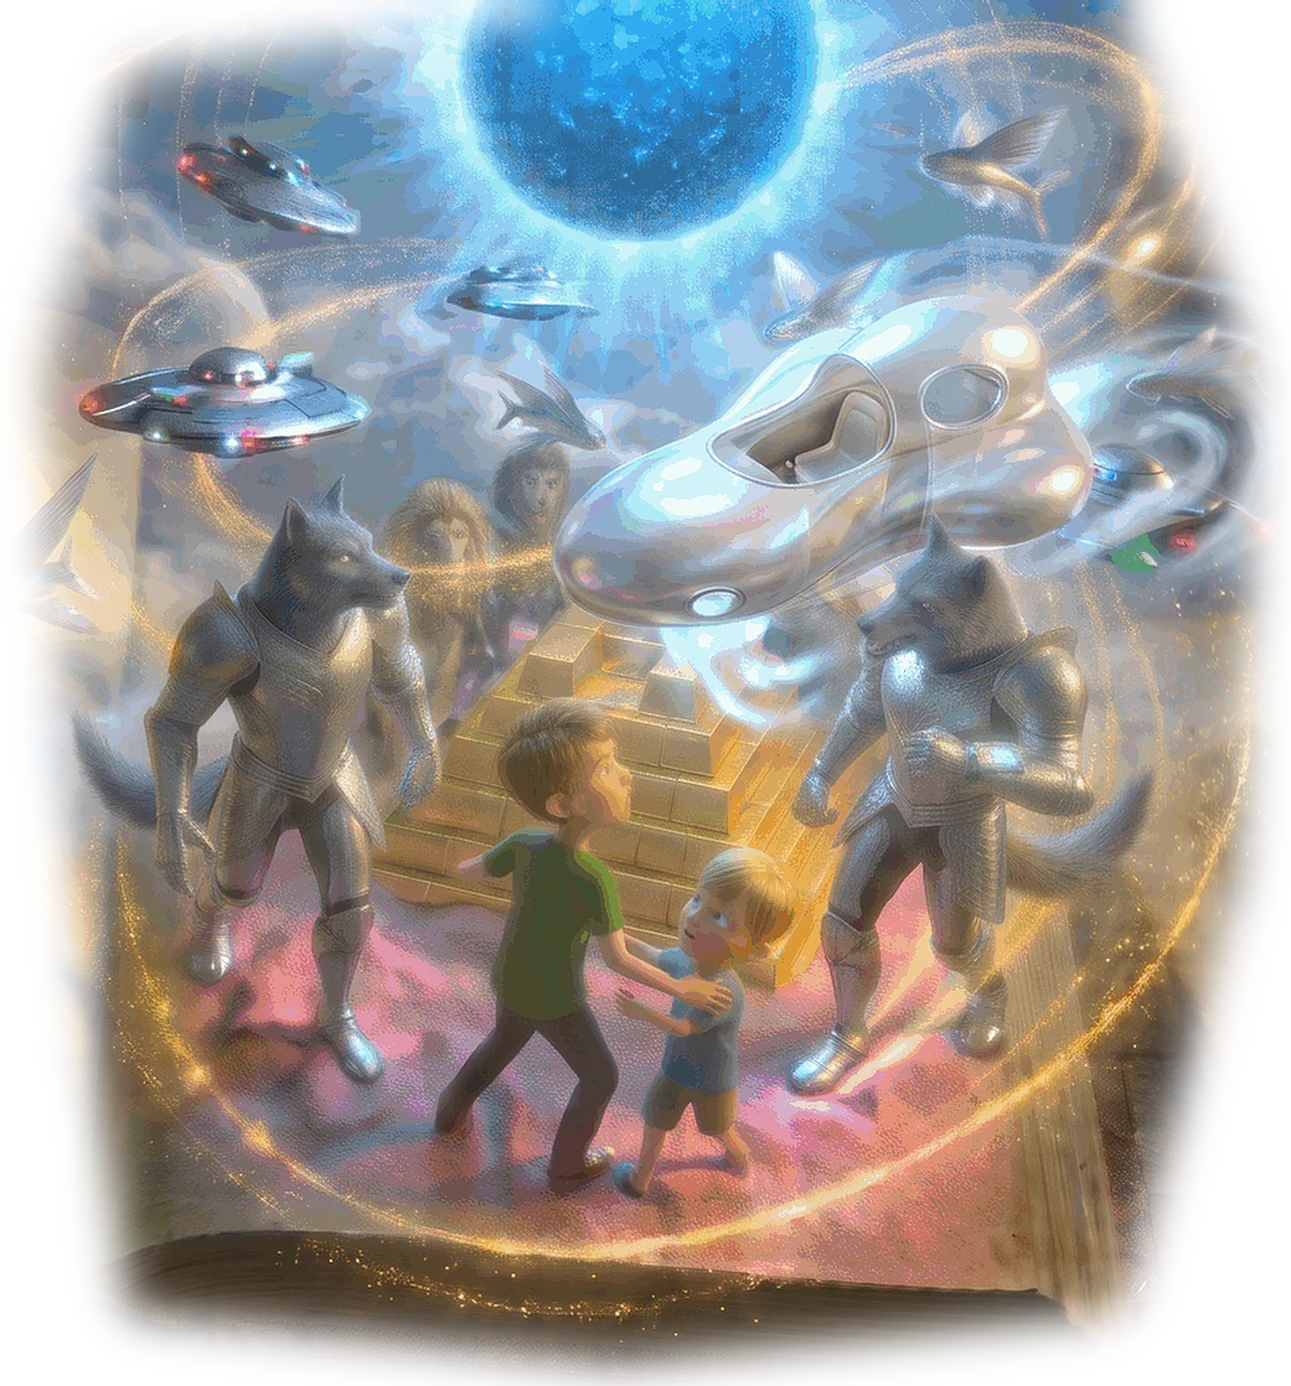
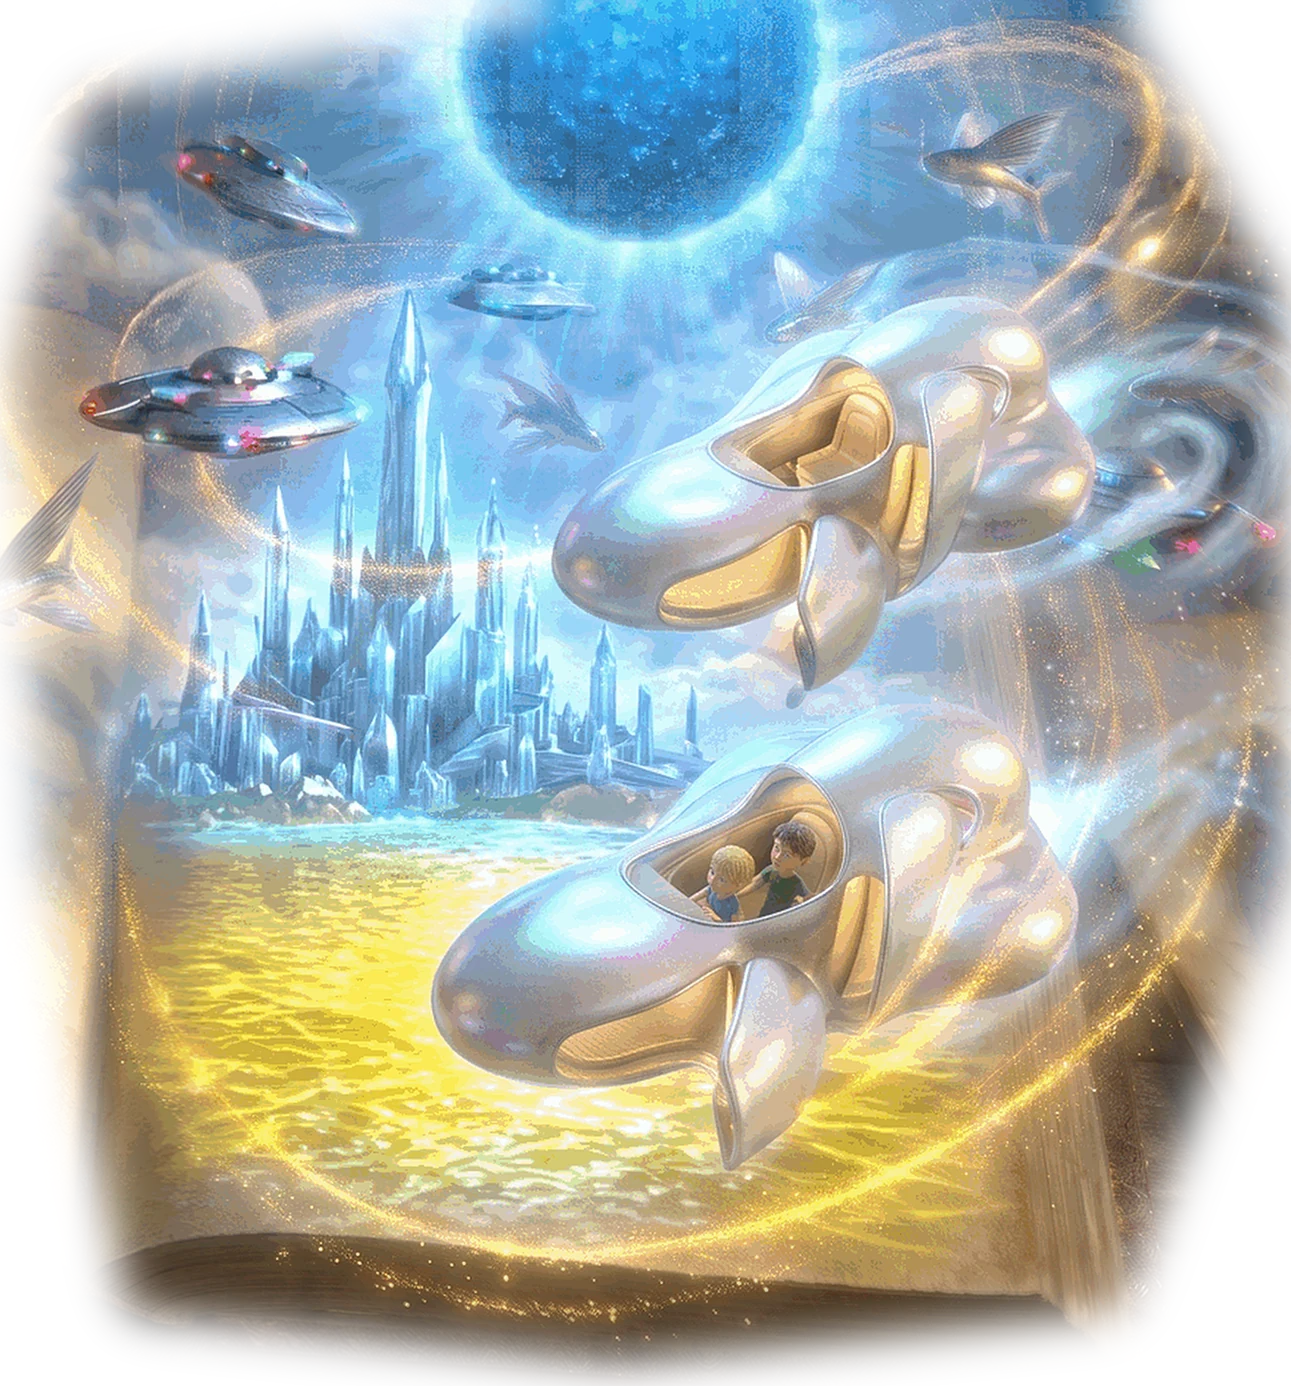
Upside-Down World p24: use clean crystal-city frame, no ghosting
Claude-Session: https://claude.ai/code/session_01BFtifSTdmWYaAK88ECs5PE

diff --git a/books/upside-down-world/sprite.js b/books/upside-down-world/sprite.js
@@ -1,2 +1,2 @@
 /* flying objects drawn over a still page: img = transparent sprite, rs = ball radius in the sprite, path = [x,y,radius] per frame at 24 fps in 1408x768 picture pixels */
-window.SPRITES={p01:{img:"img/p01-ball.webp",size:260,rs:104.5,path:[[951.0,390.0,18.5],[946.4,377.6,21.9],[944.8,373.2,22.6],[941.8,364.8,24.4],[938.6,356.8,26.0],[935.2,349.1,27.6],[931.6,342.1,29.2],[927.9,335.5,30.7],[923.8,329.1,32.0],[919.7,322.8,33.5],[915.7,316.9,34.9],[911.8,311.1,36.2],[907.8,305.5,37.6],[903.9,300.1,38.9],[899.8,295.1,40.2],[895.8,290.0,41.2],[891.4,285.1,42.2],[887.2,280.3,43.2],[882.9,275.7,44.3],[878.9,271.0,45.3],[874.9,266.6,46.5],[871.2,262.1,47.8],[867.5,257.7,49.1],[863.9,253.4,50.5],[860.2,249.1,51.8],[856.2,244.7,53.0],[852.4,240.6,54.2],[848.3,236.6,55.3],[843.9,232.6,56.5],[839.6,228.6,57.6],[835.4,224.8,58.6],[830.9,221.0,59.7],[826.3,217.3,60.7],[821.9,213.7,61.5],[817.4,210.1,62.4],[812.8,206.8,63.6],[808.1,203.5,64.5],[803.4,200.3,65.6],[798.8,196.9,66.6],[794.1,193.7,67.7],[789.4,190.4,68.8],[784.8,187.1,70.0],[780.1,183.8,71.3],[775.3,180.6,72.7],[770.3,177.4,74.1],[765.1,174.3,75.5],[759.8,171.1,77.0],[754.7,167.8,78.5],[749.2,164.6,80.0],[743.7,161.4,81.3],[738.1,157.9,82.7],[732.6,154.6,84.0]]},p02:{img:"img/p01-ball.webp",size:260,rs:104.5,kind:"lob",from:[1008,538,9],to:[1040,212,4.2],apex:170,rig:[{img:"img/p02-leg.webp",box:[960,515,60,60],pivot:[987,531],depth:[988,545],motion:"leg"}]},p03:{rig:[{img:"img/p03-leo.webp",box:[906,462,52,56],pivot:[932,504],depth:[932,495],motion:"headL"},{img:"img/p03-sam.webp",box:[946,475,52,56],pivot:[972,515],depth:[972,505],motion:"headS"}]},p03s:{img:"img/p01-ball.webp",size:260,rs:104.5,kind:"hops",ground:true,rest:1.6,start:[920.3,488.6,14.5],du:[1.25,.42,.3],grow:.5,bend:-62,hops:[[896,197,9.5,175],[892,187,8.5,15],[879,181,7.5,6]],to:[879,181,7.5]},p03t:{rig:[{img:"img/p03-turn.webp",box:[888,468,114,140],pivot:[945,538],depth:[945,540],motion:"turn"}]},p05p:{rig:[{img:"img/p05-point.webp",box:[884,452,118,156],pivot:[943,530],depth:[943,540],motion:"point2"}]},p06k:{rig:[{img:"img/p06-k0.webp",box:[878,423,80,114],pivot:[918.4,478.3],depth:[918.4,508.3],motion:"kf0"},{img:"img/p06-k1.webp",box:[866,417,97,111],pivot:[915.3,473.5],depth:[915.3,503.5],motion:"kf1"},{img:"img/p06-k2.webp",box:[874,472,99,116],pivot:[921.4,531.8],depth:[921.4,561.8],motion:"kf2"}]},p07k:{rig:[{img:"img/p07-kids.webp",box:[859.6,324.2,83.1,120.1],pivot:[910,404],depth:[910,395],motion:"walk7"}]},p08k:{rig:[{img:"img/p08-k1.webp",box:[750,272,339.5,323],pivot:[920,590],depth:[920,560],motion:"p8a"},{img:"img/p08-k2.webp",box:[781,272,283.5,323],pivot:[920,590],depth:[920,560],motion:"p8b"}]},p09k:{rig:[{img:"img/p09-wave.webp",box:[868,430,152,180],pivot:[944,520],depth:[944,540],motion:"p9"}]},p10k:{rig:[{img:"img/p10-kids.webp",box:[800,350,240,210],pivot:[920,455],depth:[920,470],motion:"stride"},{img:"img/p10-whale.webp",box:[640,30,550,380],pivot:[905,220],depth:[905,220],motion:"flip10"}]},p11k:{rig:[{img:"img/p10-kids.webp",box:[800,350,240,210],pivot:[920,455],depth:[920,470],motion:"stride"},{img:"img/p11-song.webp",box:[23,59,1272,491],pivot:[660,300],depth:[880,180],motion:"song11"}]},p12k:{rig:[{img:"img/p12-k1.webp",box:[810,340,250,260],pivot:[935,470],depth:[935,480],motion:"p12a"},{img:"img/p12-k2.webp",box:[810,340,250,260],pivot:[935,470],depth:[935,480],motion:"p12b"}]},p13k:{rig:[{img:"img/p13-gasp.webp",box:[920,350,140,140],pivot:[990,420],depth:[990,430],motion:"p13"}]},p14k:{rig:[{img:"img/p14-k1.webp",box:[850,320,210,220],pivot:[955,430],depth:[955,440],motion:"p14a"},{img:"img/p14-k2.webp",box:[850,320,210,220],pivot:[955,430],depth:[955,440],motion:"p14b"}]},p15k:{rig:[{img:"img/p15-k1.webp",box:[557,7,792,675.5],pivot:[953,345],depth:[975,418],motion:"p15a"},{img:"img/p15-k2.webp",box:[557,7,792,675.5],pivot:[953,345],depth:[975,418],motion:"p15b"}]},p16k:{rig:[{img:"img/p16-b.webp",box:[704.0, 14.5, 638.0, 367.0],pivot:[1023, 198],depth:[1063, 190],motion:"p16b"},{img:"img/p16-roma.webp",box:[705.5, 421.0, 524.5, 251.5],pivot:[968, 634],depth:[968, 547],motion:"p16roma"}]},p18k:{rig:[{img:"img/p18-k1.webp",box:[645.0,0.0,645.5,693.0],pivot:[968,346],depth:[990,367],motion:"p17b"},{img:"img/p18-k2.webp",box:[645.0,0.0,645.5,693.0],pivot:[968,346],depth:[990,367],motion:"p17c"}]},p21k:{rig:[{img:"img/p21-k1.webp",box:[645.0,0.0,645.5,693.0],pivot:[968,346],depth:[990,367],motion:"p17b"}]},p24k:{rig:[{img:"img/p24-k1.webp",box:[645.0,0.0,645.5,693.0],pivot:[968,346],depth:[990,367],motion:"p17b"},{img:"img/p24-k2.webp",box:[645.0,0.0,645.5,693.0],pivot:[968,346],depth:[990,367],motion:"p17c"}]},p23k:{rig:[{img:"img/p23-k1.webp",box:[645.0,0.0,645.5,693.0],pivot:[968,346],depth:[990,367],motion:"p17b"},{img:"img/p23-k2.webp",box:[645.0,0.0,645.5,693.0],pivot:[968,346],depth:[990,367],motion:"p17c"}]},p22k:{rig:[{img:"img/p22-k1.webp",box:[645.0,0.0,645.5,693.0],pivot:[968,346],depth:[990,367],motion:"p17b"},{img:"img/p22-k2.webp",box:[645.0,0.0,645.5,693.0],pivot:[968,346],depth:[990,367],motion:"p17c"}]},p20k:{rig:[{img:"img/p20-k1.webp",box:[645.0,0.0,645.5,693.0],pivot:[968,346],depth:[990,367],motion:"p17b"},{img:"img/p20-k2.webp",box:[645.0,0.0,645.5,693.0],pivot:[968,346],depth:[990,367],motion:"p17c"}]},p19k:{rig:[{img:"img/p19-k1.webp",box:[645.0,0.0,645.5,693.0],pivot:[968,346],depth:[990,367],motion:"p17b"},{img:"img/p19-k2.webp",box:[645.0,0.0,645.5,693.0],pivot:[968,346],depth:[990,367],motion:"p17c"}]},p17k:{rig:[{img:"img/p17-k1.webp",box:[645.0, 0.0, 697.0, 693.0],pivot:[994, 346],depth:[990, 367],motion:"p17b"},{img:"img/p17-k2.webp",box:[645.0, 0.0, 697.0, 693.0],pivot:[994, 346],depth:[990, 367],motion:"p17c"}]}};
+window.SPRITES={p01:{img:"img/p01-ball.webp",size:260,rs:104.5,path:[[951.0,390.0,18.5],[946.4,377.6,21.9],[944.8,373.2,22.6],[941.8,364.8,24.4],[938.6,356.8,26.0],[935.2,349.1,27.6],[931.6,342.1,29.2],[927.9,335.5,30.7],[923.8,329.1,32.0],[919.7,322.8,33.5],[915.7,316.9,34.9],[911.8,311.1,36.2],[907.8,305.5,37.6],[903.9,300.1,38.9],[899.8,295.1,40.2],[895.8,290.0,41.2],[891.4,285.1,42.2],[887.2,280.3,43.2],[882.9,275.7,44.3],[878.9,271.0,45.3],[874.9,266.6,46.5],[871.2,262.1,47.8],[867.5,257.7,49.1],[863.9,253.4,50.5],[860.2,249.1,51.8],[856.2,244.7,53.0],[852.4,240.6,54.2],[848.3,236.6,55.3],[843.9,232.6,56.5],[839.6,228.6,57.6],[835.4,224.8,58.6],[830.9,221.0,59.7],[826.3,217.3,60.7],[821.9,213.7,61.5],[817.4,210.1,62.4],[812.8,206.8,63.6],[808.1,203.5,64.5],[803.4,200.3,65.6],[798.8,196.9,66.6],[794.1,193.7,67.7],[789.4,190.4,68.8],[784.8,187.1,70.0],[780.1,183.8,71.3],[775.3,180.6,72.7],[770.3,177.4,74.1],[765.1,174.3,75.5],[759.8,171.1,77.0],[754.7,167.8,78.5],[749.2,164.6,80.0],[743.7,161.4,81.3],[738.1,157.9,82.7],[732.6,154.6,84.0]]},p02:{img:"img/p01-ball.webp",size:260,rs:104.5,kind:"lob",from:[1008,538,9],to:[1040,212,4.2],apex:170,rig:[{img:"img/p02-leg.webp",box:[960,515,60,60],pivot:[987,531],depth:[988,545],motion:"leg"}]},p03:{rig:[{img:"img/p03-leo.webp",box:[906,462,52,56],pivot:[932,504],depth:[932,495],motion:"headL"},{img:"img/p03-sam.webp",box:[946,475,52,56],pivot:[972,515],depth:[972,505],motion:"headS"}]},p03s:{img:"img/p01-ball.webp",size:260,rs:104.5,kind:"hops",ground:true,rest:1.6,start:[920.3,488.6,14.5],du:[1.25,.42,.3],grow:.5,bend:-62,hops:[[896,197,9.5,175],[892,187,8.5,15],[879,181,7.5,6]],to:[879,181,7.5]},p03t:{rig:[{img:"img/p03-turn.webp",box:[888,468,114,140],pivot:[945,538],depth:[945,540],motion:"turn"}]},p05p:{rig:[{img:"img/p05-point.webp",box:[884,452,118,156],pivot:[943,530],depth:[943,540],motion:"point2"}]},p06k:{rig:[{img:"img/p06-k0.webp",box:[878,423,80,114],pivot:[918.4,478.3],depth:[918.4,508.3],motion:"kf0"},{img:"img/p06-k1.webp",box:[866,417,97,111],pivot:[915.3,473.5],depth:[915.3,503.5],motion:"kf1"},{img:"img/p06-k2.webp",box:[874,472,99,116],pivot:[921.4,531.8],depth:[921.4,561.8],motion:"kf2"}]},p07k:{rig:[{img:"img/p07-kids.webp",box:[859.6,324.2,83.1,120.1],pivot:[910,404],depth:[910,395],motion:"walk7"}]},p08k:{rig:[{img:"img/p08-k1.webp",box:[750,272,339.5,323],pivot:[920,590],depth:[920,560],motion:"p8a"},{img:"img/p08-k2.webp",box:[781,272,283.5,323],pivot:[920,590],depth:[920,560],motion:"p8b"}]},p09k:{rig:[{img:"img/p09-wave.webp",box:[868,430,152,180],pivot:[944,520],depth:[944,540],motion:"p9"}]},p10k:{rig:[{img:"img/p10-kids.webp",box:[800,350,240,210],pivot:[920,455],depth:[920,470],motion:"stride"},{img:"img/p10-whale.webp",box:[640,30,550,380],pivot:[905,220],depth:[905,220],motion:"flip10"}]},p11k:{rig:[{img:"img/p10-kids.webp",box:[800,350,240,210],pivot:[920,455],depth:[920,470],motion:"stride"},{img:"img/p11-song.webp",box:[23,59,1272,491],pivot:[660,300],depth:[880,180],motion:"song11"}]},p12k:{rig:[{img:"img/p12-k1.webp",box:[810,340,250,260],pivot:[935,470],depth:[935,480],motion:"p12a"},{img:"img/p12-k2.webp",box:[810,340,250,260],pivot:[935,470],depth:[935,480],motion:"p12b"}]},p13k:{rig:[{img:"img/p13-gasp.webp",box:[920,350,140,140],pivot:[990,420],depth:[990,430],motion:"p13"}]},p14k:{rig:[{img:"img/p14-k1.webp",box:[850,320,210,220],pivot:[955,430],depth:[955,440],motion:"p14a"},{img:"img/p14-k2.webp",box:[850,320,210,220],pivot:[955,430],depth:[955,440],motion:"p14b"}]},p15k:{rig:[{img:"img/p15-k1.webp",box:[557,7,792,675.5],pivot:[953,345],depth:[975,418],motion:"p15a"},{img:"img/p15-k2.webp",box:[557,7,792,675.5],pivot:[953,345],depth:[975,418],motion:"p15b"}]},p16k:{rig:[{img:"img/p16-b.webp",box:[704.0, 14.5, 638.0, 367.0],pivot:[1023, 198],depth:[1063, 190],motion:"p16b"},{img:"img/p16-roma.webp",box:[705.5, 421.0, 524.5, 251.5],pivot:[968, 634],depth:[968, 547],motion:"p16roma"}]},p18k:{rig:[{img:"img/p18-k1.webp",box:[645.0,0.0,645.5,693.0],pivot:[968,346],depth:[990,367],motion:"p17b"},{img:"img/p18-k2.webp",box:[645.0,0.0,645.5,693.0],pivot:[968,346],depth:[990,367],motion:"p17c"}]},p21k:{rig:[{img:"img/p21-k1.webp",box:[645.0,0.0,645.5,693.0],pivot:[968,346],depth:[990,367],motion:"p17b"}]},p24k:{rig:[{img:"img/p24-k1.webp",box:[645.0,0.0,645.5,693.0],pivot:[968,346],depth:[990,367],motion:"p17b"}]},p23k:{rig:[{img:"img/p23-k1.webp",box:[645.0,0.0,645.5,693.0],pivot:[968,346],depth:[990,367],motion:"p17b"},{img:"img/p23-k2.webp",box:[645.0,0.0,645.5,693.0],pivot:[968,346],depth:[990,367],motion:"p17c"}]},p22k:{rig:[{img:"img/p22-k1.webp",box:[645.0,0.0,645.5,693.0],pivot:[968,346],depth:[990,367],motion:"p17b"},{img:"img/p22-k2.webp",box:[645.0,0.0,645.5,693.0],pivot:[968,346],depth:[990,367],motion:"p17c"}]},p20k:{rig:[{img:"img/p20-k1.webp",box:[645.0,0.0,645.5,693.0],pivot:[968,346],depth:[990,367],motion:"p17b"},{img:"img/p20-k2.webp",box:[645.0,0.0,645.5,693.0],pivot:[968,346],depth:[990,367],motion:"p17c"}]},p19k:{rig:[{img:"img/p19-k1.webp",box:[645.0,0.0,645.5,693.0],pivot:[968,346],depth:[990,367],motion:"p17b"},{img:"img/p19-k2.webp",box:[645.0,0.0,645.5,693.0],pivot:[968,346],depth:[990,367],motion:"p17c"}]},p17k:{rig:[{img:"img/p17-k1.webp",box:[645.0, 0.0, 697.0, 693.0],pivot:[994, 346],depth:[990, 367],motion:"p17b"},{img:"img/p17-k2.webp",box:[645.0, 0.0, 697.0, 693.0],pivot:[994, 346],depth:[990, 367],motion:"p17c"}]}};

diff --git a/books/upside-down-world/index.html b/books/upside-down-world/index.html
@@ -107,8 +107,8 @@ body.narrow #bar{gap:6px;padding-top:8px}body.narrow #bar button{padding:0 12px;
   <button id="auto" aria-pressed="true" title="Turn the pages by itself">Auto turn</button>
   <button id="next" aria-label="Next page">&#8594;</button>
 </div>
-<script src="story.js?v=16"></script>
-<script src="sprite.js?v=20"></script>
+<script src="story.js?v=17"></script>
+<script src="sprite.js?v=21"></script>
 <script src="voice.js"></script>
 <script src="vtime.js"></script>
 <script>
